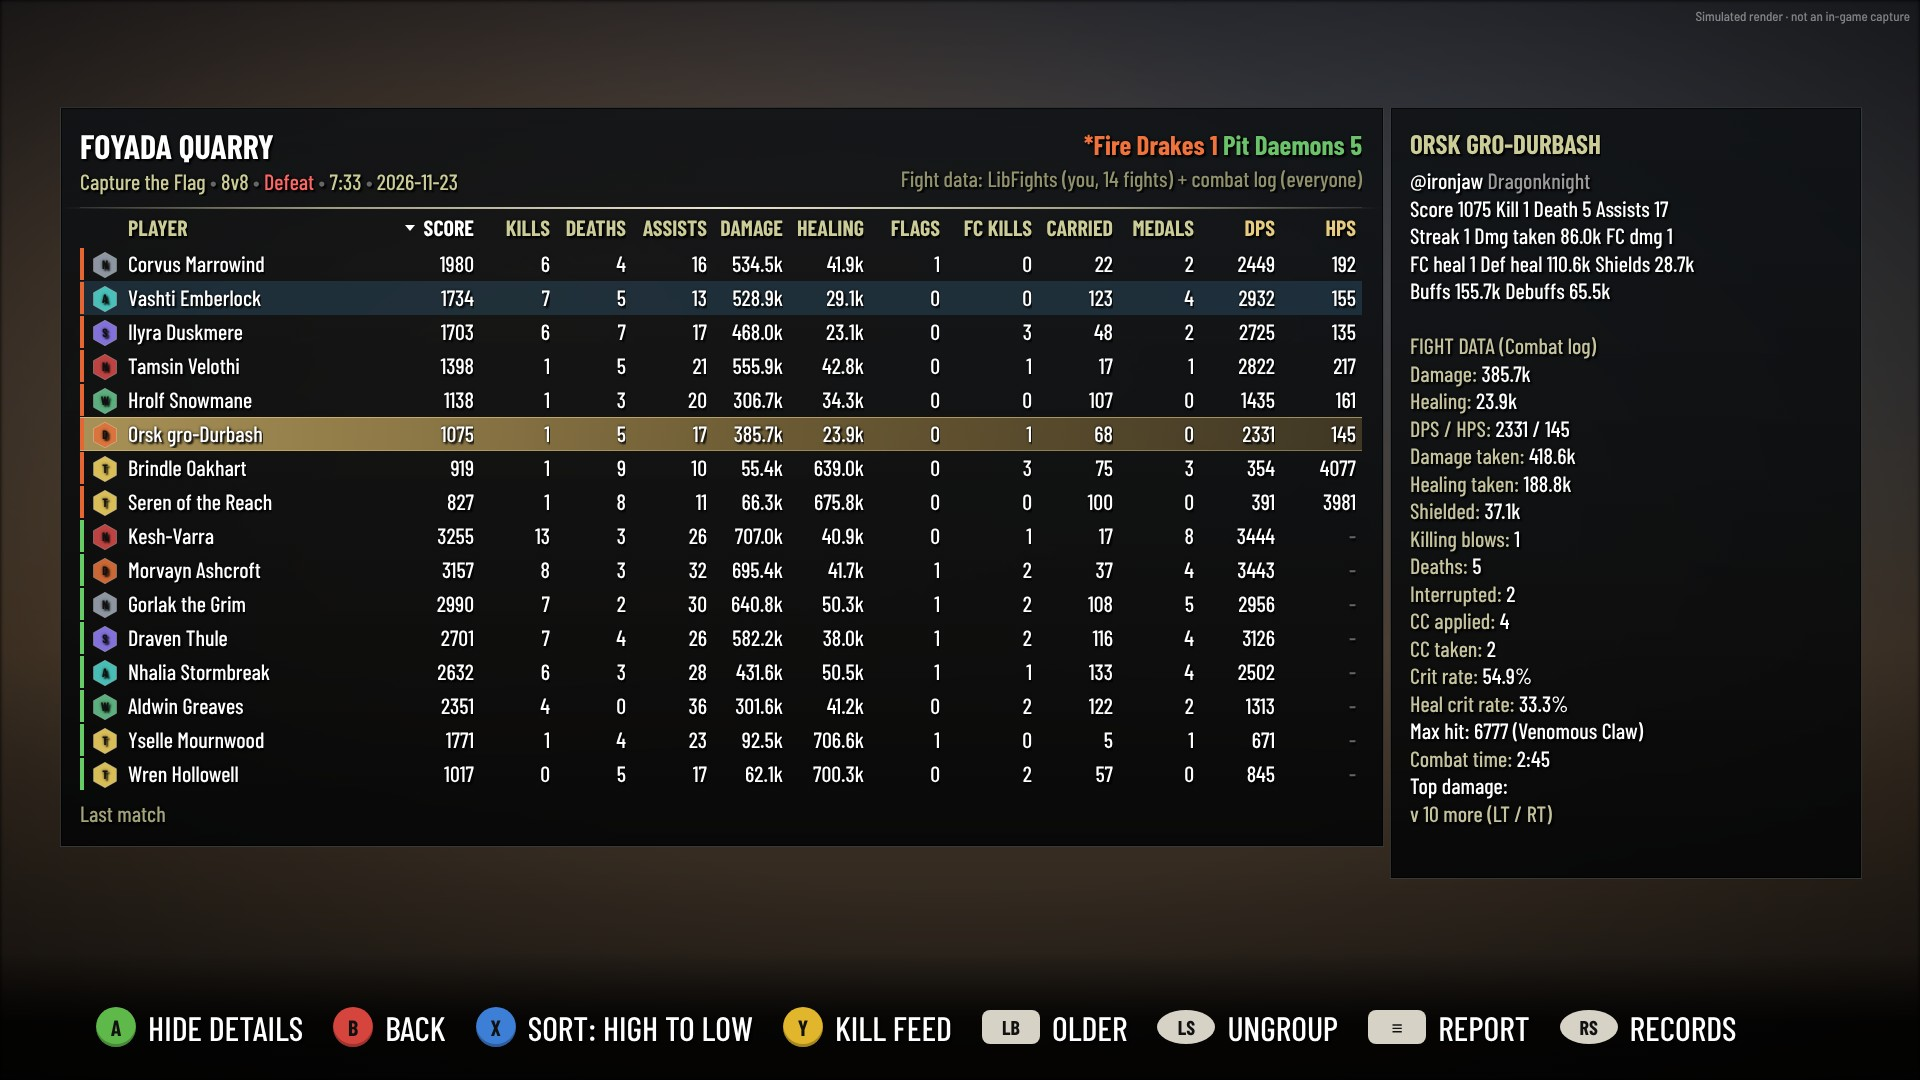
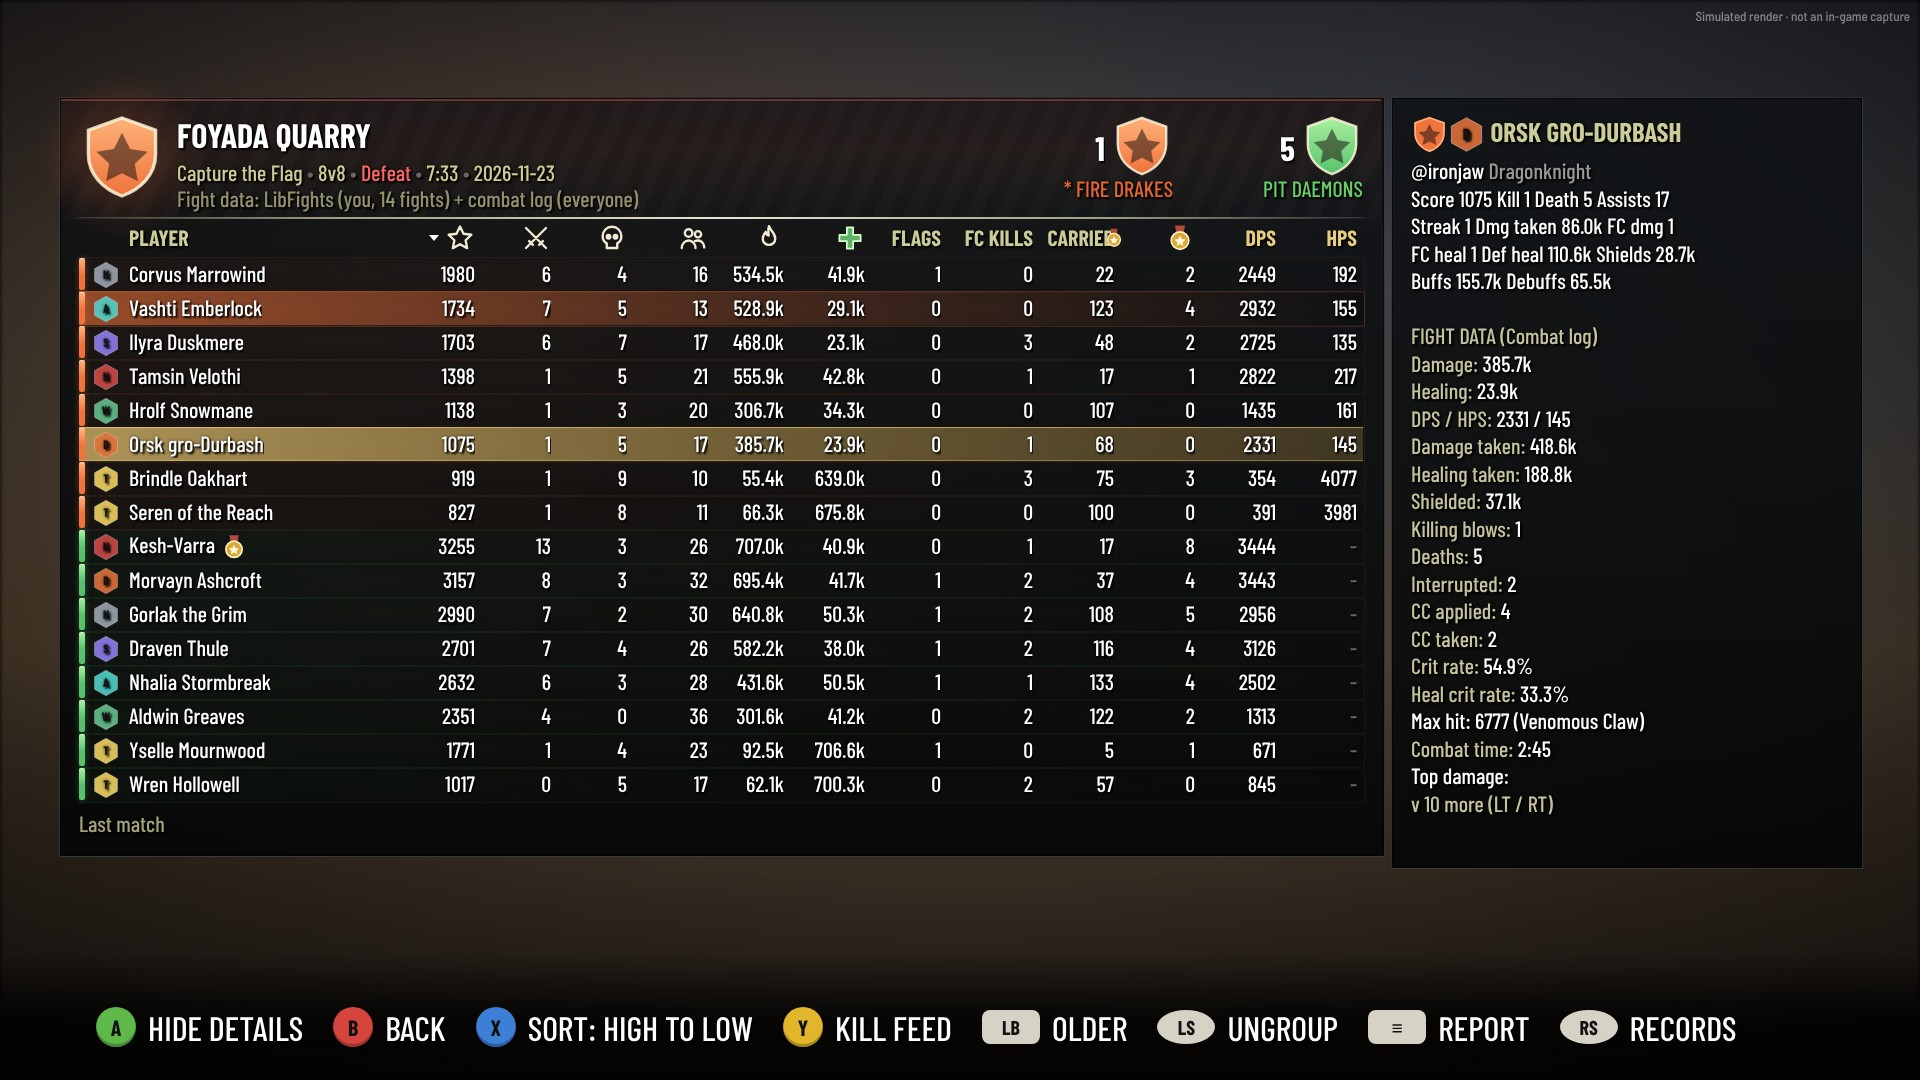
Scoreboard makeover with the game's battleground art
Header: your team's emblem on a glow and banner / scoreboard background
across the top; an emblem + score block per team instead of a text line.
Column headers: icons for score, kills, deaths, assists, damage, healing,
medals. Rows: team scoreboard background and capture-bar edge per row, the
team highlight strip on your row, a medal on the top scorer. Details pane:
team emblem and class icon before the name. Taller header so the lines no
longer touch the column headers. Renderer: texture alpha applied, stand-ins
for icons inside text.

Claude-Session: https://claude.ai/code/session_01DQVQLHZ3FZwfm2nCUdtVnP

Changed region(s): [[0.0312, 0.0917, 0.875, 0.7944], [0.7188, 0.7944, 0.9688, 0.825], [0.5625, 0.7028, 0.5938, 0.7333]]

diff --git a/tools/render.js b/tools/render.js
@@ -119,6 +119,7 @@ function pageMain(screen, native, FONTS, FACES) {
   const TEAM_HEX = { orange: ["#f0723c", "#ffb27a"], green: ["#57c26b", "#a8f0a0"], purple: ["#a77be0", "#d8c0ff"] };
   function artFor(p, r, c, a) {
     let m;
+    a = a * (c[3] ?? 1); // the texture's own alpha (SetColor), as the game applies it
     const tint = `rgba(${Math.round(c[0] * 255)},${Math.round(c[1] * 255)},${Math.round(c[2] * 255)},${a})`;
     const white = c[0] > .97 && c[1] > .97 && c[2] > .97;
     if ((m = p.match(/battlegrounds_teamIcon_(\w+)\.dds/))) {
@@ -190,6 +191,13 @@ function pageMain(screen, native, FONTS, FACES) {
     if (/medal_/.test(p)) {
       const hue = [42, 205, 350, 130, 280, 18][hash(p) % 6];
       return `<svg width="${w}" height="${h}" viewBox="0 0 60 60"><path d="M20 2h8l4 14-6 4zM40 2h-8l-4 14 6 4z" fill="hsl(${(hue + 180) % 360} 45% 45%)"/><circle cx="30" cy="36" r="20" fill="hsl(${hue} 55% 40%)" stroke="hsl(${hue} 70% 72%)" stroke-width="2.5"/><path d="M30 25l3.2 6.6 7.2.9-5.3 5 1.4 7.2L30 41.2l-6.5 3.5 1.4-7.2-5.3-5 7.2-.9z" fill="hsl(${hue} 85% 82%)"/></svg>`;
+    }
+    if ((m = p.match(/battlegrounds_teamIcon_(\w+)\.dds/))) {
+      const [base, hi] = TEAM_HEX[m[1]] || TEAM_HEX.green;
+      return `<svg width="${w}" height="${h}" viewBox="0 0 64 64"><path d="M32 3l25 9v18c0 15-11 26-25 31C18 56 7 45 7 30V12z" fill="${base}" stroke="${hi}" stroke-width="3"/><path d="M32 14l6 12 13 2-9.5 9 2.3 13L32 44l-11.8 6 2.3-13-9.5-9 13-2z" fill="#201610" fill-opacity=".55"/></svg>`;
+    }
+    if (/achievements_reward/.test(p)) {
+      return `<svg width="${w}" height="${h}" viewBox="0 0 24 24" stroke-width="1.4"><path d="M8 2h8l-1 6H9z" fill="#b04a3a"/><circle cx="12" cy="14" r="7" fill="#d9a838" stroke="#fff1c4"/><path d="M12 10l1.4 2.8 3 .4-2.2 2.1.5 3-2.7-1.5-2.7 1.5.5-3-2.2-2.1 3-.4z" fill="#fff6dc"/></svg>`;
     }
     if (/ability_/.test(p)) {
       const hue = hash(p) % 360;

diff --git a/README.md b/README.md
@@ -128,6 +128,18 @@ Matches are saved in `SavedVariables/ScoreboardRemastered.lua`
   the kill log, both in a pre-selected box ready for Ctrl+C.
 - Keybinds: *Controls → Scoreboard Remastered*.
 
+### The look
+
+The scoreboard uses the game's own battleground art, like the battle report:
+
+- **Header:** your team's emblem on a glow, and your team's banner across the top (win
+  or loss once the match ends, the team scoreboard background while it runs).
+- **Teams:** each team is shown as its emblem and score, in team colour.
+- **Column headers:** icons for score, kills, deaths, assists, damage, healing and medals.
+- **Rows:** every row sits on its team's scoreboard background with a team-coloured
+  edge. Your row gets the team's highlight strip, and the top scorer gets a medal.
+- **Details:** the pane leads with the player's team emblem and class icon.
+
 ### It replaces the native scoreboard
 
 The scoreboard key now opens Scoreboard Remastered instead of ESO's in-game battleground
